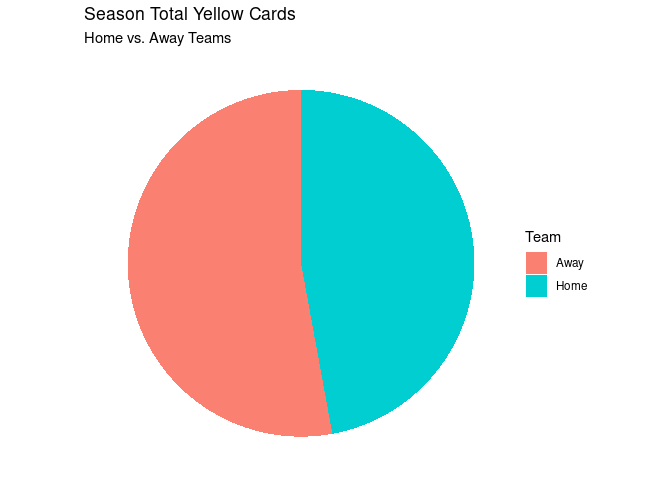
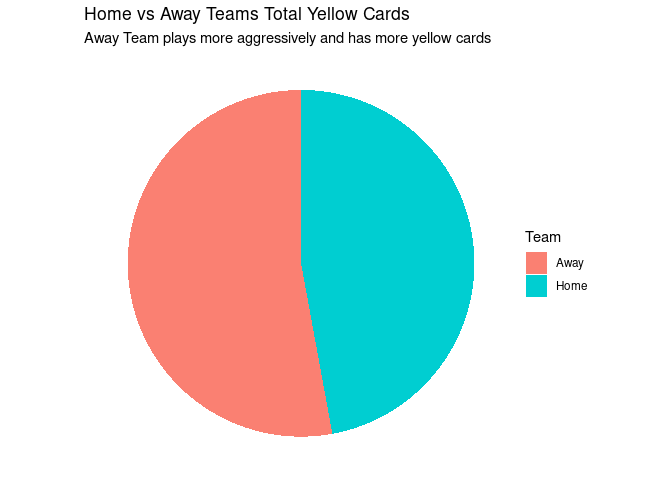
Added alternative text

Changed region(s): [[0.125, 0.0, 0.75, 0.0938]]

diff --git a/memo/memo.md b/memo/memo.md
@@ -387,7 +387,12 @@ ggplot(foul_long, aes(x = HomeTeam, y = Fouls, color = FoulType, group = HomeTea
 #ggsave("our_newdumbbellplot.png")
 ```
 
-### Plot 4: Pie Chart
+### Final Plot 4: Pie Chart
+
+#### Data cleanup steps specific to plot 4
+
+We wanted to create a simple graph to display teams aggressiveness and
+whether that changed depending on where they played.
 
 ``` r
 yellow_totals <- data.frame(
@@ -401,11 +406,67 @@ ggplot(yellow_totals, aes(x = "", y = TotalYellows, fill = Team)) +
   coord_polar("y") +
   scale_fill_manual(values = c("Away" = "salmon", "Home" = "darkturquoise")) +
   labs(
-    title = "Season Total Yellow Cards",
-    subtitle = "Home vs. Away Teams",
+    title = "Home vs Away Teams Total Yellow Cards",
+    subtitle = "Away Team plays more aggressively and has more yellow cards",
     fill = "Team"
   ) +
   theme_void()
 ```
 
-![](memo_files/figure-gfm/yellow-cards%20pie-chart-1.png)<!-- -->
+<img src="memo_files/figure-gfm/yellow-cards pie-chart-1.png" alt="Pie chart displaying amount of yellow cards that Away and Home teams have gotten, Away team has more yellow cards showing that teams play more aggressively when they are the away team"  />
+
+``` r
+library(dplyr)
+library(tidyr)
+library(ggplot2)
+
+overall_means <- season |>
+  summarise(
+    avg_HC_overall = mean(HC, na.rm = TRUE),
+    avg_AC_overall = mean(AC, na.rm = TRUE)
+  ) |>
+  pivot_longer(
+    everything(),
+    names_to = "Type",
+    values_to = "OverallAvg"
+  ) |>
+  mutate(
+    Type = ifelse(Type == "avg_HC_overall", "avg_HC", "avg_AC")
+  )
+
+team_data <- season |>
+  summarise(avg_HC = mean(HC, na.rm = TRUE), .by = HomeTeam) |>
+  rename(Team = HomeTeam) |>
+  full_join(
+    season |>
+      summarise(avg_AC = mean(AC, na.rm = TRUE), .by = AwayTeam) |>
+      rename(Team = AwayTeam),
+    by = "Team"
+  ) |>
+  pivot_longer(
+    cols = c(avg_HC, avg_AC),
+    names_to = "Type",
+    values_to = "AvgCorners"
+  )
+ggplot(team_data, aes(x = Team, y = AvgCorners)) +
+  geom_point(aes(color = Type), size = 3) +
+  geom_hline(data = overall_means,
+             aes(yintercept = OverallAvg),
+             linetype = "dashed",
+             linewidth = 0.8,
+             color = "black") +
+  facet_wrap(~ Type, scales = "free_y") +
+  scale_color_manual(
+    values = c("avg_HC" = "darkturquoise", "avg_AC" = "salmon"),
+    labels = c("avg_HC" = "Home Corner Kicks", "avg_AC" = "Away Corner Kicks")
+  ) +
+  labs(
+    title = "Average Corner Kicks per Home vs Away Team",
+    subtitle = "Home Team plays better and earns more corner kicks",
+    x = "Team",
+    y = "Average Corners"
+  ) +
+  coord_flip()
+```
+
+<img src="memo_files/figure-gfm/scatter-plot-corners-1.png" alt="Scatter plot showing the average amount of corner kicks that each team has. Home teams on average have more corner kicks so they play better when they are the home team."  />
